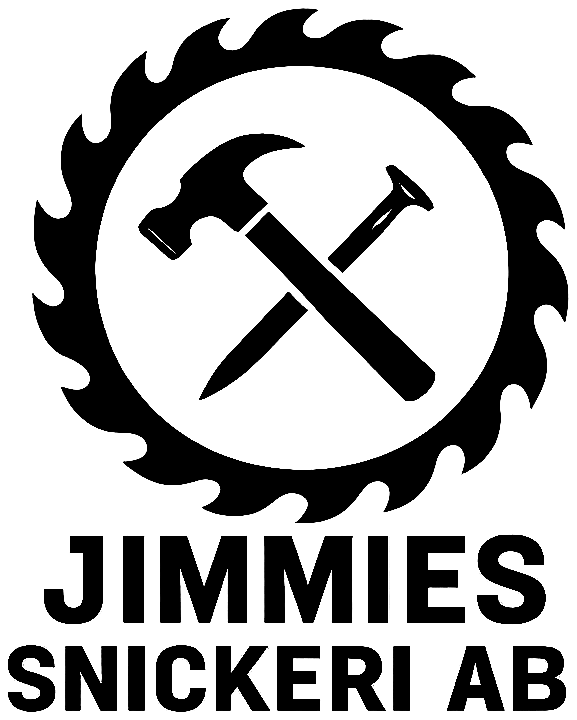
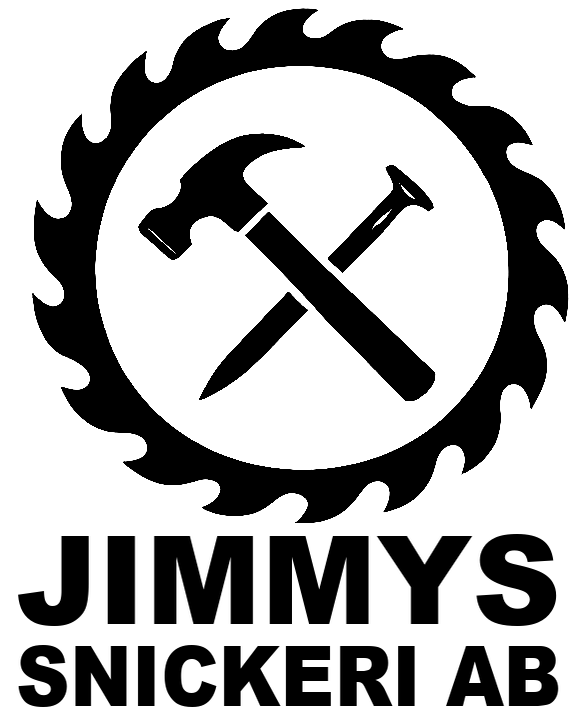
Namnbyte till Jimmys Snickeri AB
- All text pa bada spraken uppdaterad (Jimmie -> Jimmy)
- Fiktiva e-post- och sociala medier-adresser foljer med
- Texten i loggabilden omritad till JIMMYS SNICKERI AB

diff --git a/index.html b/index.html
@@ -3,8 +3,8 @@
 <head>
 <meta charset="UTF-8">
 <meta name="viewport" content="width=device-width, initial-scale=1.0">
-<title>Jimmies Snickeri AB | Hantverk med hjärta i Älmhult</title>
-<meta name="description" content="Jimmies Snickeri AB i Älmhult. Altaner, kök, renovering och byggnadssnickeri med gedigen kvalitet och personligt bemötande.">
+<title>Jimmys Snickeri AB | Hantverk med hjärta i Älmhult</title>
+<meta name="description" content="Jimmys Snickeri AB i Älmhult. Altaner, kök, renovering och byggnadssnickeri med gedigen kvalitet och personligt bemötande.">
 <link rel="icon" type="image/png" href="logga-emblem.png">
 <!-- Säkerhet: CSP tillåter bara sidans egna resurser (frame-ancestors kan inte
      sättas via meta; sätt den som HTTP-header om sajten får riktig hosting) -->
@@ -389,18 +389,18 @@
 <!-- ============ HEADER ============ -->
 <header>
   <div class="wrap nav">
-    <a class="brand" href="#hem" aria-label="Jimmies Snickeri AB">
+    <a class="brand" href="#hem" aria-label="Jimmys Snickeri AB">
       <span class="emblem" aria-hidden="true">
         <img class="emblem-klinga" src="logga-klinga.png" alt="">
         <img src="logga-verktyg.png" alt="">
       </span>
-      <span class="brand-name">Jimmies Snickeri AB<small>Älmhult</small></span>
+      <span class="brand-name">Jimmys Snickeri AB<small>Älmhult</small></span>
     </a>
     <div class="nav-right">
       <nav>
         <ul class="nav-links" id="navLinks">
           <li><a href="#tjanster" data-i18n="nav.services">Tjänster</a></li>
-          <li><a href="#om" data-i18n="nav.about">Om Jimmie</a></li>
+          <li><a href="#om" data-i18n="nav.about">Om Jimmy</a></li>
           <li><a href="#projekt" data-i18n="nav.projects">Projekt</a></li>
           <li><a href="#omdomen" data-i18n="nav.reviews">Omdömen</a></li>
           <li><a class="nav-cta" href="#kontakt" data-i18n="nav.cta">Begär offert</a></li>
@@ -423,7 +423,7 @@
     <div>
       <span class="kicker" data-i18n="hero.kicker">Snickeri &amp; byggnadshantverk i Älmhult</span>
       <h1 data-i18n="hero.h1">Hantverk byggt för att <em>hålla i generationer</em></h1>
-      <p class="lead" data-i18n="hero.lead">Från altan och kök till helrenovering. Jimmies Snickeri AB hjälper dig hela vägen från idé till färdigt resultat, med gedigen kvalitet och ett personligt bemötande.</p>
+      <p class="lead" data-i18n="hero.lead">Från altan och kök till helrenovering. Jimmys Snickeri AB hjälper dig hela vägen från idé till färdigt resultat, med gedigen kvalitet och ett personligt bemötande.</p>
       <div class="hero-ctas">
         <a class="btn btn-primary" href="#kontakt">
           <span data-i18n="hero.btn1">Begär kostnadsfri offert</span>
@@ -448,7 +448,7 @@
     </div>
     <div class="hero-art">
       <div class="hero-panel">
-        <img src="logga-fri.png" alt="Jimmies Snickeri AB, bygg och snickeri">
+        <img src="logga-fri.png" alt="Jimmys Snickeri AB, bygg och snickeri">
       </div>
       <div class="hero-chip">
         <div>
@@ -533,15 +533,15 @@
             <ellipse cx="290" cy="180" rx="19" ry="8"/>
           </g>
         </svg>
-        <div class="photo-hint" data-i18n="about.hint">Platshållare.<br>Foto på Jimmie i verkstaden.</div>
+        <div class="photo-hint" data-i18n="about.hint">Platshållare.<br>Foto på Jimmy i verkstaden.</div>
       </div>
       <div class="about-frame"></div>
     </div>
     <div class="about-text reveal">
-      <span class="kicker" data-i18n="about.kicker">Om Jimmie</span>
+      <span class="kicker" data-i18n="about.kicker">Om Jimmy</span>
       <h2 data-i18n="about.h2">En snickare som bryr sig om detaljerna</h2>
-      <p data-i18n="about.p1">Jimmies Snickeri AB drivs av Jimmie, snickare med många års erfarenhet av allt från finsnickeri till större byggprojekt. Företaget utgår från Älmhult.</p>
-      <p data-i18n="about.p2">För Jimmie är inget jobb klart förrän kunden är helt nöjd. Det märks i de små detaljerna: raka linjer, snygga avslut och en arbetsplats som lämnas städad varje dag.</p>
+      <p data-i18n="about.p1">Jimmys Snickeri AB drivs av Jimmy, snickare med många års erfarenhet av allt från finsnickeri till större byggprojekt. Företaget utgår från Älmhult.</p>
+      <p data-i18n="about.p2">För Jimmy är inget jobb klart förrän kunden är helt nöjd. Det märks i de små detaljerna: raka linjer, snygga avslut och en arbetsplats som lämnas städad varje dag.</p>
       <p data-i18n="about.p3">Du får alltid en tydlig offert innan arbetet börjar och löpande uppdateringar under projektets gång. Resultatet ska hålla i många år.</p>
       <div class="about-stats">
         <div><b>15+</b><span data-i18n="about.s1">år i branschen</span></div>
@@ -558,7 +558,7 @@
     <div class="section-head reveal">
       <span class="kicker" data-i18n="projects.kicker">Projekt</span>
       <h2 data-i18n="projects.h2">Ett urval av tidigare arbeten</h2>
-      <p data-i18n="projects.p">Här kommer bilder på Jimmies riktiga projekt att visas. Tills dess ligger platshållare med exempel på uppdragstyper.</p>
+      <p data-i18n="projects.p">Här kommer bilder på Jimmys riktiga projekt att visas. Tills dess ligger platshållare med exempel på uppdragstyper.</p>
     </div>
     <div class="project-grid">
       <div class="project reveal"><div class="ph"></div><div class="label"><b data-i18n="proj1.h">Altan med pergola</b><span data-i18n="proj1.s">Villa, Älmhult</span></div></div>
@@ -583,7 +583,7 @@
     <div class="reviews-grid">
       <div class="review reveal">
         <div class="stars">★★★★★</div>
-        <p data-i18n="rev1.p">”Jimmie byggde vår nya altan och vi kunde inte vara nöjdare. Snabb, noggrann och otroligt trevlig. Han kom med smarta förslag vi inte tänkt på själva.”</p>
+        <p data-i18n="rev1.p">”Jimmy byggde vår nya altan och vi kunde inte vara nöjdare. Snabb, noggrann och otroligt trevlig. Han kom med smarta förslag vi inte tänkt på själva.”</p>
         <div class="who">
           <div class="avatar">AL</div>
           <div><b>Anna &amp; Lars Petersson</b><span data-i18n="rev1.s">Altanbygge, Älmhult</span></div>
@@ -599,7 +599,7 @@
       </div>
       <div class="review reveal">
         <div class="stars">★★★★★</div>
-        <p data-i18n="rev3.p">”Jimmie renoverade vårt vardagsrum med nya golv, lister och innertak. Proffsigt utfört från början till slut. Vi återkommer gärna med fler projekt.”</p>
+        <p data-i18n="rev3.p">”Jimmy renoverade vårt vardagsrum med nya golv, lister och innertak. Proffsigt utfört från början till slut. Vi återkommer gärna med fler projekt.”</p>
         <div class="who">
           <div class="avatar">JH</div>
           <div><b>Johan Hult</b><span data-i18n="rev3.s">Renovering, Diö</span></div>
@@ -617,7 +617,7 @@
       <h2 data-i18n="contact.h2">Berätta om ditt projekt</h2>
       <p class="intro" data-i18n="contact.intro">Ring, mejla eller skicka formuläret. Du får alltid svar och en kostnadsfri offert utan förpliktelser.</p>
 
-      <!-- OBS: Fiktiva kontaktuppgifter. Byt ut när Jimmie har riktiga. -->
+      <!-- OBS: Fiktiva kontaktuppgifter. Byt ut när Jimmy har riktiga. -->
       <div class="contact-item">
         <div class="ci">
           <svg viewBox="0 0 24 24" fill="none" stroke="currentColor" stroke-width="1.8" stroke-linecap="round" stroke-linejoin="round"><path d="M22 16.9v3a2 2 0 0 1-2.2 2 19.8 19.8 0 0 1-8.6-3.1 19.5 19.5 0 0 1-6-6A19.8 19.8 0 0 1 2.1 4.2 2 2 0 0 1 4.1 2h3a2 2 0 0 1 2 1.7c.1 1 .4 2 .7 2.9a2 2 0 0 1-.4 2.1L8.1 10a16 16 0 0 0 6 6l1.3-1.3a2 2 0 0 1 2.1-.4c.9.3 1.9.6 2.9.7a2 2 0 0 1 1.6 2z"/></svg>
@@ -628,7 +628,7 @@
         <div class="ci">
           <svg viewBox="0 0 24 24" fill="none" stroke="currentColor" stroke-width="1.8" stroke-linecap="round" stroke-linejoin="round"><rect x="2" y="4" width="20" height="16" rx="2"/><path d="m22 7-10 6L2 7"/></svg>
         </div>
-        <div><b data-i18n="contact.l2">E-post</b><a href="mailto:[email redacted]">[email redacted]</a></div>
+        <div><b data-i18n="contact.l2">E-post</b><a href="mailto:[email redacted]">[email redacted]</a></div>
       </div>
       <div class="contact-item">
         <div class="ci">
@@ -645,10 +645,10 @@
 
       <div class="socials">
         <!-- Fiktiva sociala länkar -->
-        <a href="https://facebook.com/jimmiessnickeri" aria-label="Facebook" title="Facebook (platshållare)">
+        <a href="https://facebook.com/jimmyssnickeri" aria-label="Facebook" title="Facebook (platshållare)">
           <svg viewBox="0 0 24 24" fill="currentColor"><path d="M13.5 21v-7h2.4l.4-3h-2.8V9.1c0-.9.3-1.5 1.6-1.5h1.3V4.9c-.3 0-1.1-.1-2-.1-2.1 0-3.4 1.2-3.4 3.5V11H8.5v3H11v7h2.5z"/></svg>
         </a>
-        <a href="https://instagram.com/jimmiessnickeri" aria-label="Instagram" title="Instagram (platshållare)">
+        <a href="https://instagram.com/jimmyssnickeri" aria-label="Instagram" title="Instagram (platshållare)">
           <svg viewBox="0 0 24 24" fill="none" stroke="currentColor" stroke-width="1.8" stroke-linecap="round" stroke-linejoin="round"><rect x="3" y="3" width="18" height="18" rx="5"/><circle cx="12" cy="12" r="4"/><circle cx="17.2" cy="6.8" r=".8" fill="currentColor" stroke="none"/></svg>
         </a>
       </div>
@@ -656,7 +656,7 @@
 
     <div class="form-card reveal">
       <h3 data-i18n="form.h3">Begär offert</h3>
-      <p class="hint" data-i18n="form.hint">Beskriv kort vad du vill ha hjälp med så återkommer Jimmie.</p>
+      <p class="hint" data-i18n="form.hint">Beskriv kort vad du vill ha hjälp med så återkommer Jimmy.</p>
       <form id="quoteForm">
         <div class="form-row">
           <div class="field">
@@ -697,8 +697,8 @@
 <!-- ============ FOOTER ============ -->
 <footer>
   <div class="wrap foot">
-    <div class="brand-name">Jimmies Snickeri AB<small>Älmhult</small></div>
-    <div data-i18n="footer.legal">© 2026 Jimmies Snickeri AB · Org.nr 000000-0000 (platshållare) · Innehav av F-skattsedel</div>
+    <div class="brand-name">Jimmys Snickeri AB<small>Älmhult</small></div>
+    <div data-i18n="footer.legal">© 2026 Jimmys Snickeri AB · Org.nr 000000-0000 (platshållare) · Innehav av F-skattsedel</div>
   </div>
 </footer>
 
@@ -706,13 +706,13 @@
   // ---------- Språkväxling ----------
   const EN = {
     'nav.services': 'Services',
-    'nav.about': 'About Jimmie',
+    'nav.about': 'About Jimmy',
     'nav.projects': 'Projects',
     'nav.reviews': 'Reviews',
     'nav.cta': 'Request a quote',
     'hero.kicker': 'Carpentry &amp; construction in Älmhult, Sweden',
     'hero.h1': 'Craftsmanship built to <em>last for generations</em>',
-    'hero.lead': 'From decks and kitchens to full renovations. Jimmies Snickeri AB guides you all the way from idea to finished result, with solid quality and a personal touch.',
+    'hero.lead': 'From decks and kitchens to full renovations. Jimmys Snickeri AB guides you all the way from idea to finished result, with solid quality and a personal touch.',
     'hero.btn1': 'Request a free quote',
     'hero.btn2': 'See previous projects',
     'hero.badge1': 'F-tax certified &amp; insured',
@@ -735,18 +735,18 @@
     'card5.p': 'Carports, garages, sheds and garden houses. Sturdy buildings that last for many years.',
     'card6.h': 'General contracting',
     'card6.p': 'Bigger project? We coordinate electrical, plumbing and painting through trusted partners. You have a single point of contact throughout.',
-    'about.hint': 'Placeholder.<br>Photo of Jimmie in the workshop.',
-    'about.kicker': 'About Jimmie',
+    'about.hint': 'Placeholder.<br>Photo of Jimmy in the workshop.',
+    'about.kicker': 'About Jimmy',
     'about.h2': 'A carpenter who cares about the details',
-    'about.p1': 'Jimmies Snickeri AB is run by Jimmie, a carpenter with many years of experience in everything from fine carpentry to larger construction projects. The company is based in Älmhult, Sweden.',
-    'about.p2': 'For Jimmie, no job is finished until the customer is completely satisfied. You can tell by the small details: straight lines, clean finishes and a work site left tidy every day.',
+    'about.p1': 'Jimmys Snickeri AB is run by Jimmy, a carpenter with many years of experience in everything from fine carpentry to larger construction projects. The company is based in Älmhult, Sweden.',
+    'about.p2': 'For Jimmy, no job is finished until the customer is completely satisfied. You can tell by the small details: straight lines, clean finishes and a work site left tidy every day.',
     'about.p3': 'You always get a clear quote before work begins and regular updates along the way. The result is meant to last for many years.',
     'about.s1': 'years in the trade',
     'about.s2': 'completed projects',
     'about.s3': 'happy customers',
     'projects.kicker': 'Projects',
     'projects.h2': 'A selection of previous work',
-    'projects.p': 'Photos of Jimmie’s real projects will be shown here. Until then, these are placeholders with examples of typical jobs.',
+    'projects.p': 'Photos of Jimmy’s real projects will be shown here. Until then, these are placeholders with examples of typical jobs.',
     'proj1.h': 'Deck with pergola', 'proj1.s': 'House, Älmhult',
     'proj2.h': 'Window replacement', 'proj2.s': '1920s house, Älmhult',
     'proj3.h': 'Kitchen renovation', 'proj3.s': 'Townhouse, Liatorp',
@@ -757,11 +757,11 @@
     'reviews.kicker': 'Reviews',
     'reviews.h2': 'What our customers say',
     'reviews.p': 'A good reputation is built one customer at a time. Here are a few voices from previous jobs.',
-    'rev1.p': '”Jimmie built our new deck and we could not be happier. Fast, meticulous and incredibly friendly. He came up with smart suggestions we had not thought of ourselves.”',
+    'rev1.p': '”Jimmy built our new deck and we could not be happier. Fast, meticulous and incredibly friendly. He came up with smart suggestions we had not thought of ourselves.”',
     'rev1.s': 'Deck build, Älmhult',
     'rev2.p': '”Our whole kitchen was installed on time and at the quoted price. Clean and tidy every day. Warmly recommended!”',
     'rev2.s': 'Kitchen installation, Liatorp',
-    'rev3.p': '”Jimmie renovated our living room with new floors, mouldings and ceiling. Professional work from start to finish. We will gladly be back with more projects.”',
+    'rev3.p': '”Jimmy renovated our living room with new floors, mouldings and ceiling. Professional work from start to finish. We will gladly be back with more projects.”',
     'rev3.s': 'Renovation, Diö',
     'contact.kicker': 'Contact',
     'contact.h2': 'Tell us about your project',
@@ -773,7 +773,7 @@
     'contact.l4': 'Opening hours',
     'contact.v4': 'Monday to Friday, 07:00 to 17:00',
     'form.h3': 'Request a quote',
-    'form.hint': 'Briefly describe what you need help with and Jimmie will get back to you.',
+    'form.hint': 'Briefly describe what you need help with and Jimmy will get back to you.',
     'form.name': 'Name',
     'form.namePh': 'Your name',
     'form.phone': 'Phone',
@@ -790,16 +790,16 @@
     'form.msgPh': 'Tell us briefly what you would like done...',
     'form.send': 'Send request',
     'form.note': 'Free of charge and no obligations. We never share your details.',
-    'footer.legal': '© 2026 Jimmies Snickeri AB · Corp. ID 000000-0000 (placeholder) · F-tax certified'
+    'footer.legal': '© 2026 Jimmys Snickeri AB · Corp. ID 000000-0000 (placeholder) · F-tax certified'
   };
   const META = {
     sv: {
-      title: 'Jimmies Snickeri AB | Hantverk med hjärta i Älmhult',
+      title: 'Jimmys Snickeri AB | Hantverk med hjärta i Älmhult',
       alert: 'Tack för din förfrågan! (Formuläret är en platshållare och skickar inget ännu.)',
       label: 'EN'
     },
     en: {
-      title: 'Jimmies Snickeri AB | Carpentry with heart in Älmhult, Sweden',
+      title: 'Jimmys Snickeri AB | Carpentry with heart in Älmhult, Sweden',
       alert: 'Thank you for your enquiry! (The form is a placeholder and does not send anything yet.)',
       label: 'SV'
     }